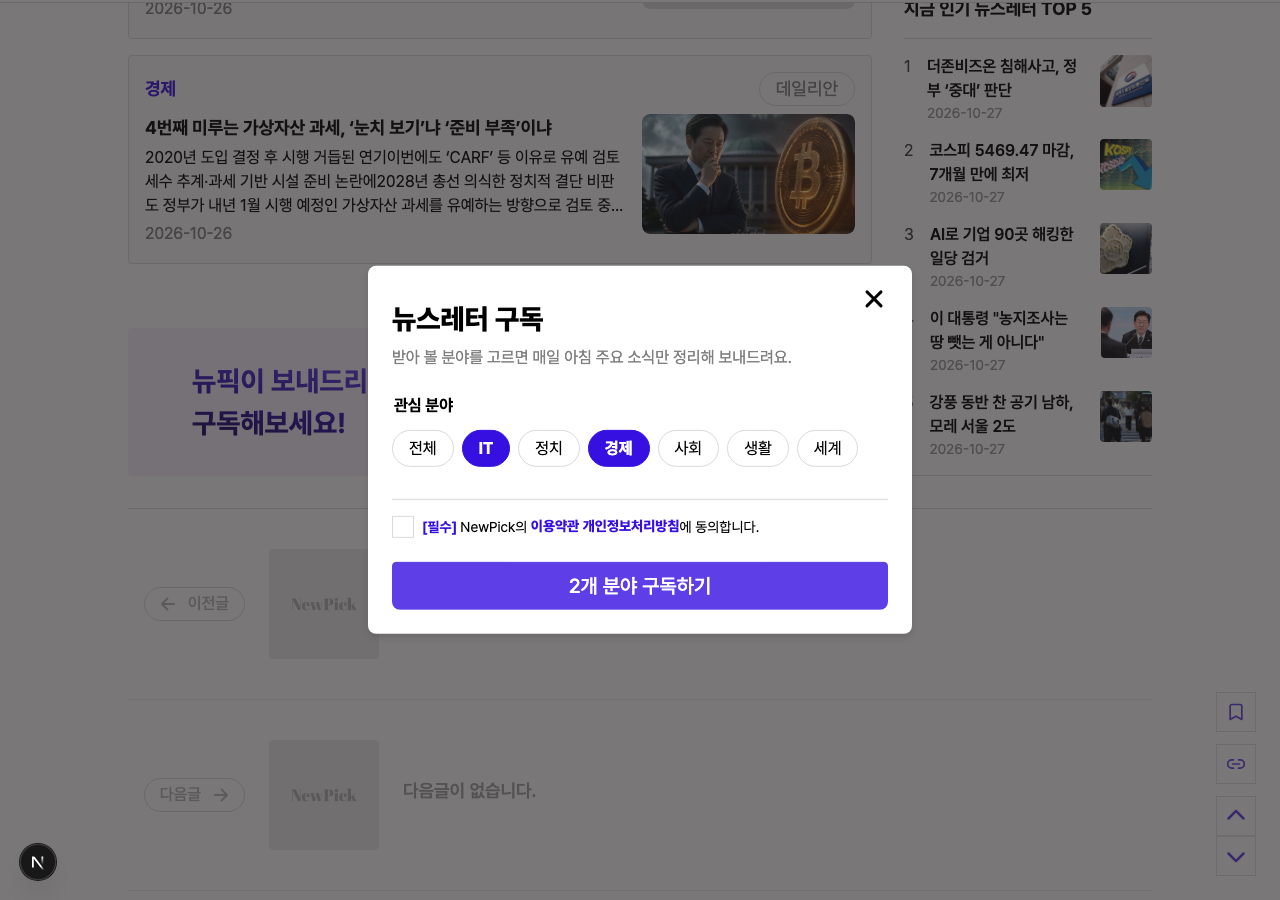
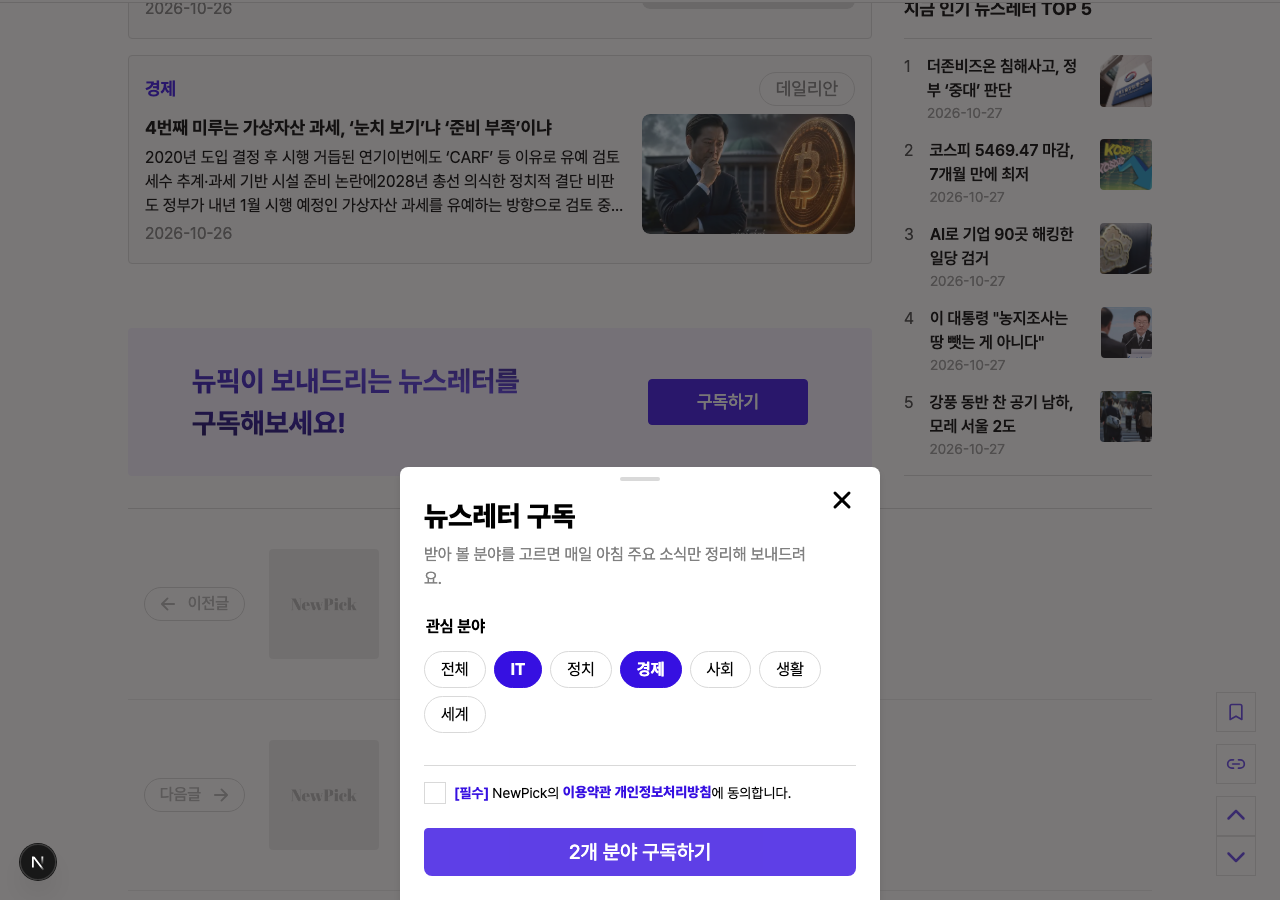
fix(web): 데스크톱도 화면 아래에 붙는 좁은 시트(30rem)로

Changed region(s): [[0.2812, 0.28, 0.7188, 1.0]]

diff --git a/apps/web/src/components/common/modal/ModalContainer.tsx b/apps/web/src/components/common/modal/ModalContainer.tsx
@@ -157,52 +157,53 @@ const StyledModal = styled.div`
 		border-radius: ${({ theme }) => theme.borderRadius.medium};
 	}
 
-	/* sheet (#52): 데스크톱은 가운데, 모바일은 아래에서 올라오는 시트 */
+	/* sheet (#52): 화면 아래에 붙어 올라오는 시트. 데스크톱은 폭을 좁혀 가운데, 모바일은 화면 폭 전체 */
 	&.sheet .modal-body {
-		width: min(34rem, calc(100vw - 2rem));
+		@keyframes sheet-up {
+			from {
+				transform: translateY(100%);
+			}
+			to {
+				transform: translateY(0);
+			}
+		}
+
+		top: auto;
+		bottom: 0;
+		left: 0;
+		right: 0;
+		width: min(30rem, 100%);
 		min-width: 0;
-		max-height: calc(100vh - 4rem);
+		max-width: none;
+		max-height: 85vh;
+		margin: 0 auto;
 		overflow-y: auto;
-		padding: 2rem 1.5rem 1.5rem;
+		transform: none;
 		align-items: stretch;
+		padding: 1.75rem 1.5rem calc(1.5rem + env(safe-area-inset-bottom));
+		border-radius: ${({ theme }) => theme.borderRadius.medium} ${({ theme }) => theme.borderRadius.medium} 0 0;
+		animation: sheet-up 0.3s ease-out;
+
+		@media ${({ theme }) => theme.mediaQuery.mobile} {
+			width: 100%;
+			padding: 1.75rem 1.25rem calc(1.25rem + env(safe-area-inset-bottom));
+		}
 
 		.modal-contents {
 			padding: 0;
 		}
 
-		@media ${({ theme }) => theme.mediaQuery.mobile} {
-			@keyframes sheet-up {
-				from {
-					transform: translateY(100%);
-				}
-				to {
-					transform: translateY(0);
-				}
-			}
-
-			top: auto;
-			bottom: 0;
-			left: 0;
-			width: 100%;
-			max-width: none;
-			max-height: 85vh;
-			transform: none;
-			padding: 1.75rem 1.25rem calc(1.25rem + env(safe-area-inset-bottom));
-			border-radius: ${({ theme }) => theme.borderRadius.medium} ${({ theme }) => theme.borderRadius.medium} 0 0;
-			animation: sheet-up 0.3s ease-out;
-
-			/* 끌어 내릴 수 있을 것 같은 손잡이 모양 (닫기는 바깥 누르기·닫기 버튼) */
-			&::before {
-				content: '';
-				position: absolute;
-				top: 0.625rem;
-				left: 50%;
-				width: 2.5rem;
-				height: 4px;
-				margin-left: -1.25rem;
-				border-radius: 2px;
-				background: ${({ theme }) => theme.color.border};
-			}
+		/* 시트 손잡이 (닫기는 바깥 누르기·Esc·닫기 버튼) */
+		&::before {
+			content: '';
+			position: absolute;
+			top: 0.625rem;
+			left: 50%;
+			width: 2.5rem;
+			height: 4px;
+			margin-left: -1.25rem;
+			border-radius: 2px;
+			background: ${({ theme }) => theme.color.border};
 		}
 	}
 
